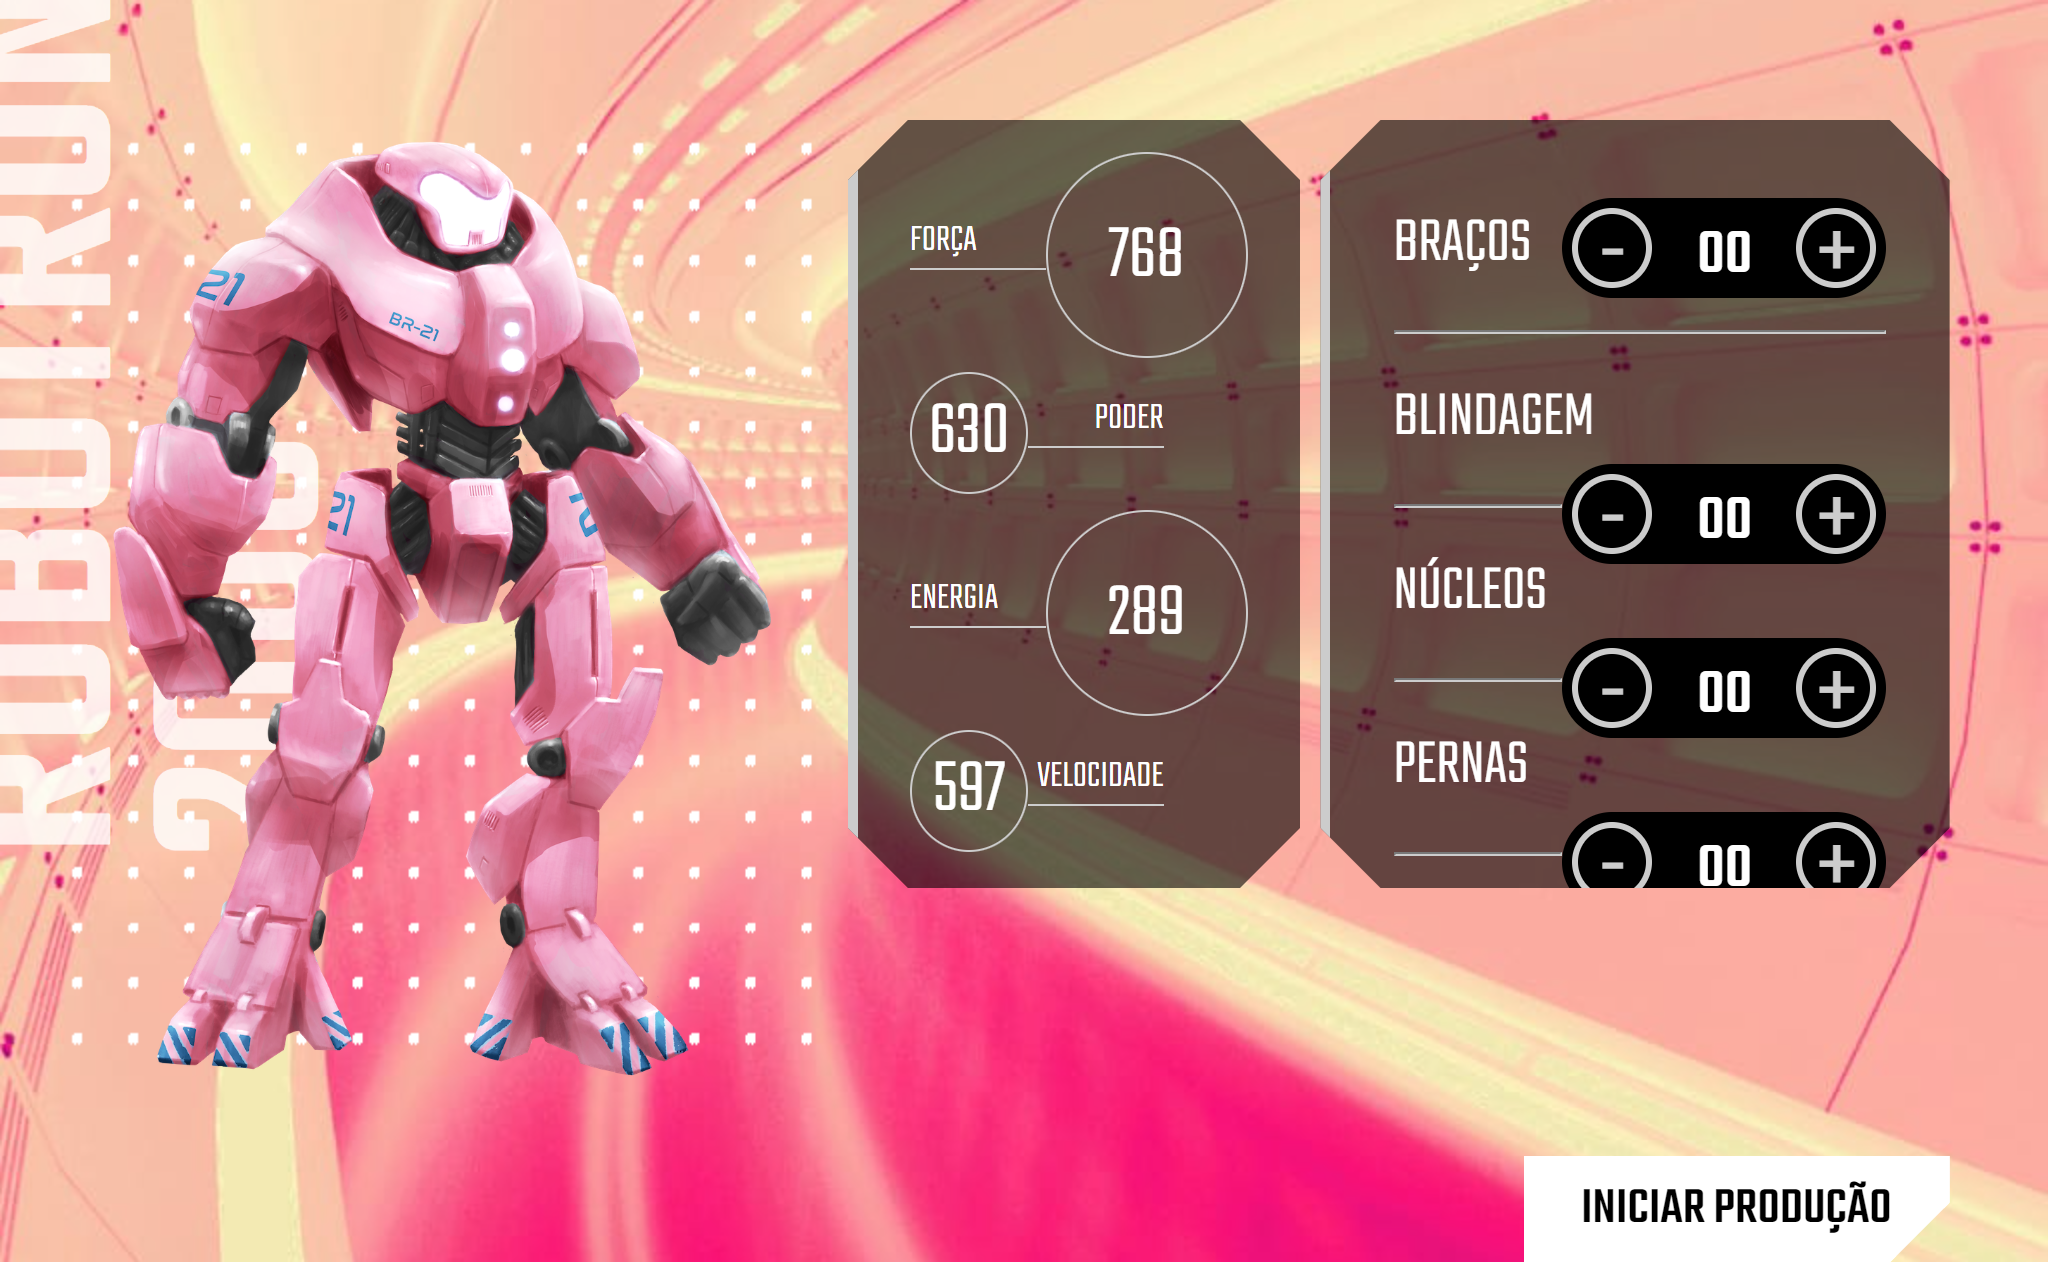
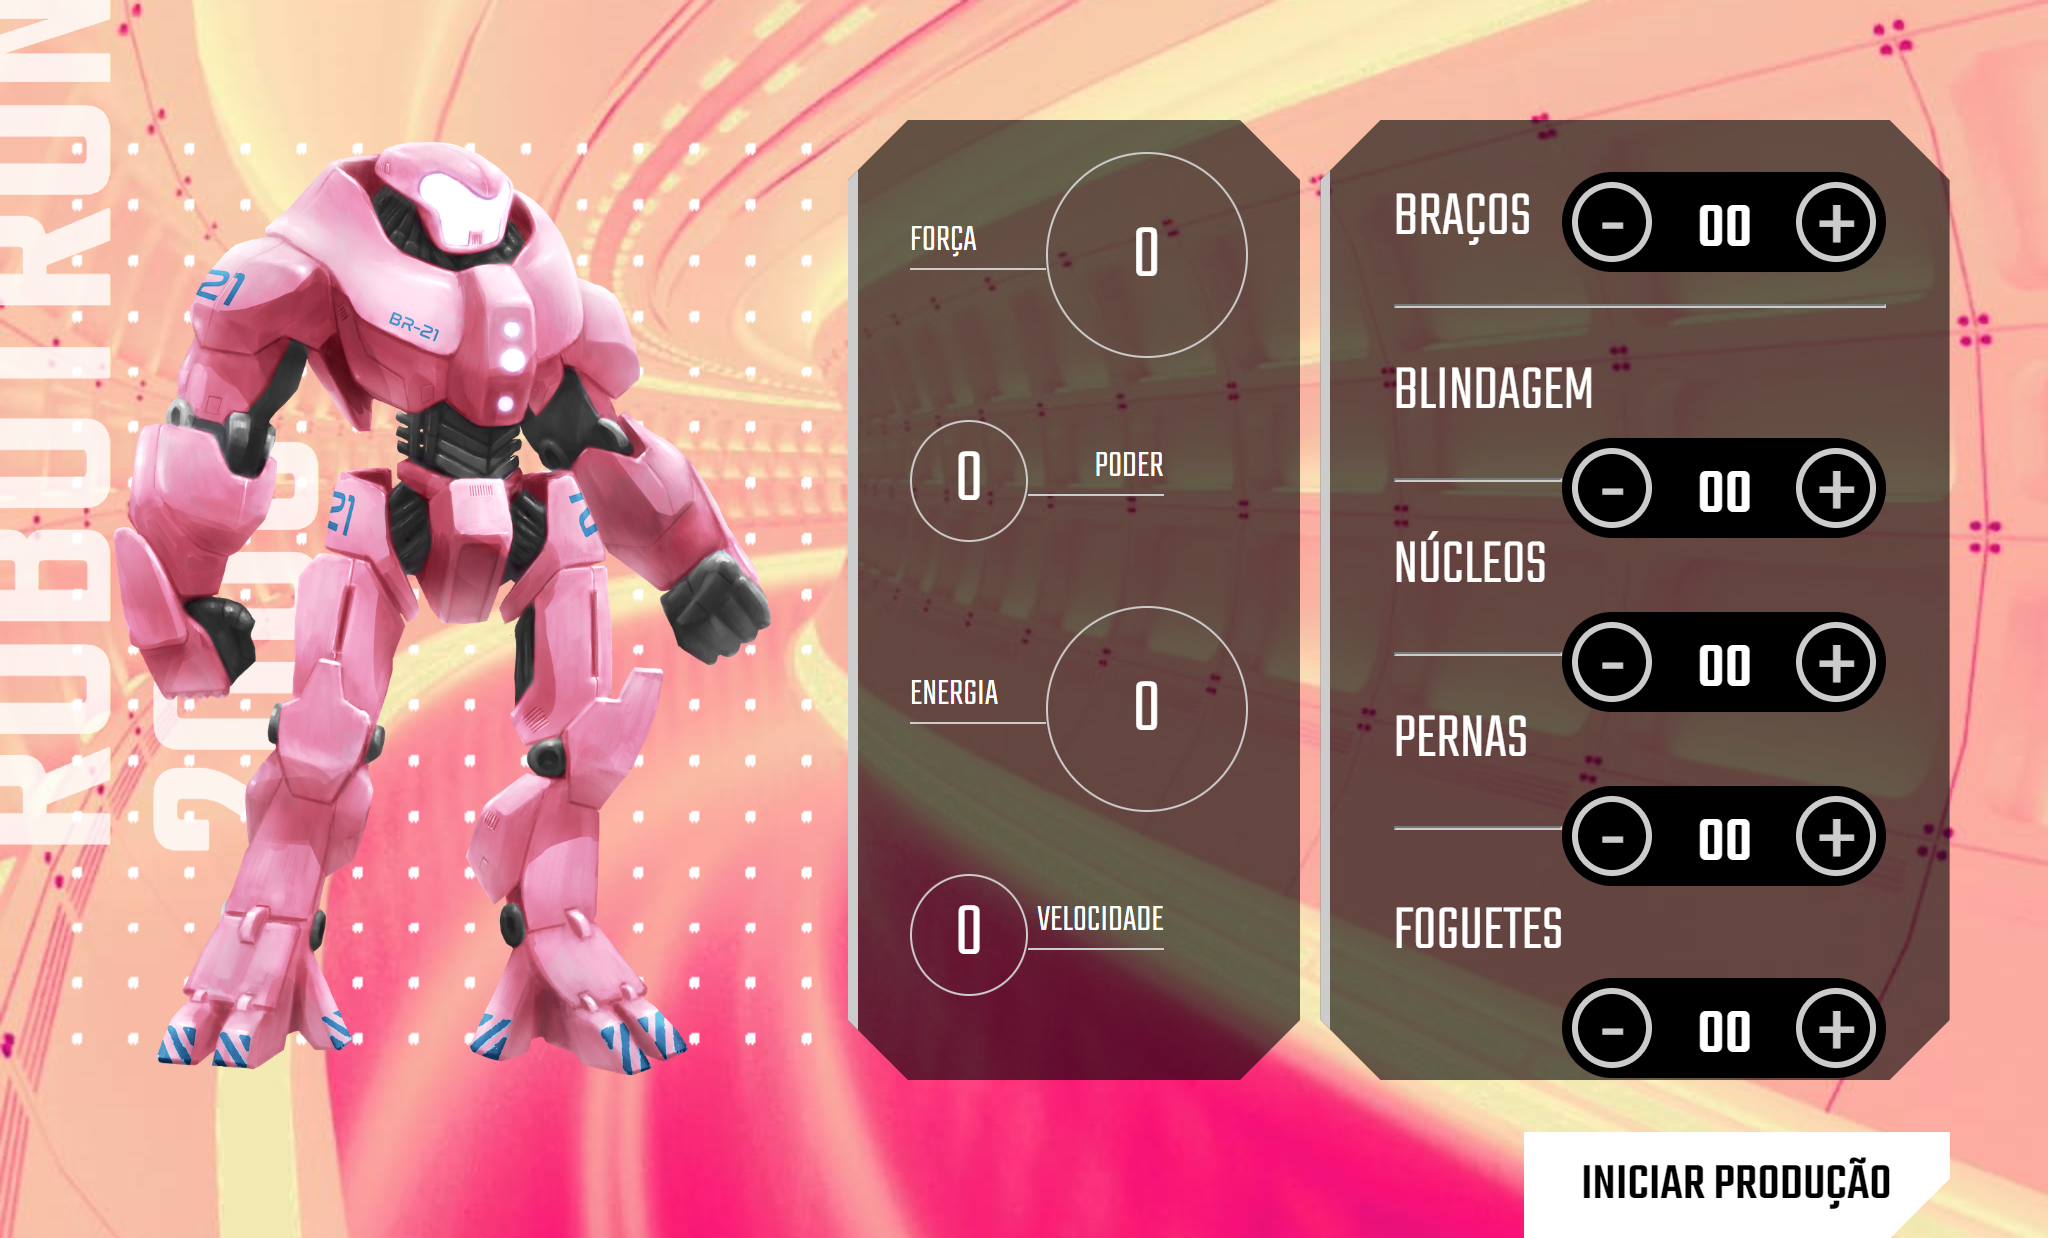
cálculo dinamico

diff --git a/index.html b/index.html
@@ -25,25 +25,25 @@
             <div class="estatistica">
                 <p class="estatistica-titulo">Força</p>
                 <div class="estatistica-valor">
-                    <p class="estatistica-numero">768</p>
+                    <p class="estatistica-numero"data-estatistica="forca">0</p>
                 </div>
             </div>
             <div class="estatistica">
                 <p class="estatistica-titulo">Poder</p>
                 <div class="estatistica-valor">
-                    <p class="estatistica-numero">630</p>
+                    <p class="estatistica-numero"data-estatistica="poder">0</p>
                 </div>
             </div>
             <div class="estatistica">
                 <p class="estatistica-titulo">Energia</p>
                 <div class="estatistica-valor">
-                    <p class="estatistica-numero">289</p>
+                    <p class="estatistica-numero"data-estatistica="energia">0</p>
                 </div>
             </div>
             <div class="estatistica">
                 <p class="estatistica-titulo">Velocidade</p>
                 <div class="estatistica-valor">
-                    <p class="estatistica-numero">597</p>
+                    <p class="estatistica-numero"data-estatistica="velocidade">0</p>
                 </div>
             </div>
         </section>
@@ -54,45 +54,45 @@
                     <div class="peca">
                         <label for="" class="peca-titulo">Braços</label>
                         <div class="controle">
-                            <buttom class="controle-ajuste" data-controle="-">-</buttom>
+                            <buttom class="controle-ajuste" data-controle="-"data-peca="bracos">-</buttom>
                             <input type="text"class="controle-contador"value="00" data-contador>
-                            <buttom class="controle-ajuste" data-controle="+">+</buttom>
+                            <buttom class="controle-ajuste" data-controle="+"data-peca="bracos">+</buttom>
                         </div>
                     </div>
                     <hr class="linha">
                     <div class="peca">
                         <label for="" class="peca-titulo">Blindagem</label>
                         <div class="controle">
-                            <buttom class="controle-ajuste" data-controle="-">-</buttom>
+                            <buttom class="controle-ajuste" data-controle="-"data-peca="blindagem">-</buttom>
                             <input type="text" class="controle-contador" value="00"  data-contador>
-                            <buttom class="controle-ajuste"data-controle="+">+</buttom>
+                            <buttom class="controle-ajuste"data-controle="+"data-peca="blindagem">+</buttom>
                         </div>
                     </div>
                     <hr class="linha">
                     <div class="peca">
                         <label for="" class="peca-titulo">Núcleos</label>
                         <div class="controle">
-                            <buttom class="controle-ajuste" data-controle="-">-</buttom>
+                            <buttom class="controle-ajuste" data-controle="-"data-peca="nucleos">-</buttom>
                             <input type="text" class="controle-contador" value="00"  data-contador>
-                            <buttom class="controle-ajuste"data-controle="+">+</buttom>
+                            <buttom class="controle-ajuste"data-controle="+"data-peca="nucleos">+</buttom>
                         </div>
                     </div>
                     <hr class="linha">
                     <div class="peca">
                         <label for="" class="peca-titulo">Pernas</label>
                         <div class="controle">
-                            <buttom class="controle-ajuste" data-controle="-">-</buttom>
+                            <buttom class="controle-ajuste" data-controle="-"data-peca="pernas">-</buttom>
                             <input type="text" class="controle-contador" value="00"  data-contador>
-                            <buttom class="controle-ajuste"data-controle="+">+</buttom>
+                            <buttom class="controle-ajuste"data-controle="+"data-peca="pernas">+</buttom>
                         </div>
                     </div>
                     <hr class="linha">
                     <div class="peca">
                         <label for="" class="peca-titulo">Foguetes</label>
                         <div class="controle">
-                            <buttom class="controle-ajuste" data-controle="-">-</buttom>
+                            <buttom class="controle-ajuste" data-controle="-"data-peca="foguetes">-</buttom>
                             <input type="text" class="controle-contador" value="00"  data-contador>
-                            <buttom class="controle-ajuste"data-controle="+">+</buttom>
+                            <buttom class="controle-ajuste"data-controle="+"data-peca="foguetes">+</buttom>
                         </div>
                     </div>
                 </div>

diff --git a/js/main.js b/js/main.js
@@ -1,17 +1,57 @@
-
 const controle = document.querySelectorAll("[data-controle]")
-   
-controle.forEach( (elemento) => {
-elemento.addEventListener("click", (evento) => {
-  manipulaDados(evento.target.dataset.controle,evento.target.parentNode)
-   })
+const estatisticas = document.querySelectorAll("[data-estatistica]")
+
+const pecas = {
+    "bracos": {
+        "forca": 29,
+        "poder": 35,
+        "energia": -21,
+        "velocidade": -5
+    },
+
+    "blindagem": {
+        "forca": 41,
+        "poder": 20,
+        "energia": 0,
+        "velocidade": -20
+    },
+    "nucleos": {
+        "forca": 0,
+        "poder": 7,
+        "energia": 48,
+        "velocidade": -24
+    },
+    "pernas": {
+        "forca": 27,
+        "poder": 21,
+        "energia": -32,
+        "velocidade": 42
+    },
+    "foguetes": {
+        "forca": 0,
+        "poder": 28,
+        "energia": 0,
+        "velocidade": -2
+    }
+}
+
+controle.forEach((elemento) => {
+    elemento.addEventListener("click", (evento) => {
+        manipulaDados(evento.target.dataset.controle, evento.target.parentNode)
+        atualizaEstatisticas(evento.target.dataset.peca)
+    })
 })
 
-function manipulaDados(operacao,controle){
-    const peca =controle.querySelector("[data-contador]")
+function manipulaDados(operacao, controle) {
+    const peca = controle.querySelector("[data-contador]")
     if (operacao === "-") {
         peca.value = parseInt(peca.value) - 1
     } else {
         peca.value = parseInt(peca.value) + 1
     }
+}
+function atualizaEstatisticas(peca) {
+    estatisticas.forEach( (elemento) => {
+        elemento.textContent = parseInt(elemento.textContent) + pecas[peca][elemento.dataset.estatistica]
+    })
 }

diff --git a/css/style.css b/css/style.css
@@ -62,10 +62,11 @@ main {
     background: rgba(0,0,0,0.6);
     clip-path: polygon(calc(100% - 30px) 0, 100% 30px, 100% calc(100% - 30px), calc(100% - 30px) 100%, 30px 100%, 0 calc(100% - 30px), 0 30px, 30px 0);
     border-left: 5px solid var(--main-cinza);
-    height: 80%;
+    height: 100%;
+   
 }
 
-/****************************** Equipamentos *****/
+
 
 .equipamentos {
     flex-basis: 32%;
@@ -149,8 +150,6 @@ main {
 }
 
 
-
-/****************************** Estatísticas *****/
 .estatisticas {
     flex-basis: 23%;
     padding: 2em 2em 0;

diff --git a/README.md b/README.md
@@ -2,6 +2,10 @@
 
 A ideia deste projeto é que a Terra está sofrendo uma invasão alienígena e você precisa montar o seu robô para juntar as forças de defesa do planeta.
 Para montar o seu Robotron  precisei adicionar peças na engrenagem que compõe um robô e ver as estatísticas atualizadas dinamicamente, tudo isso com JavaScript.
+Assim cada vez que somamos, ele atualiza os valor de força, poder, energia e velocidade.
+Para qualquer um das peças que escolheremos, as estatísticas são atualizadas imediatamente.
+
+Podemos até zerar as estatísticas porque agora vem o momento do combate em nossa invasão alienígena.
 <ul>
 <li>Custumizei o css.</li>
 <li>Interagi com HTML por meio do JavaScript.</li>
